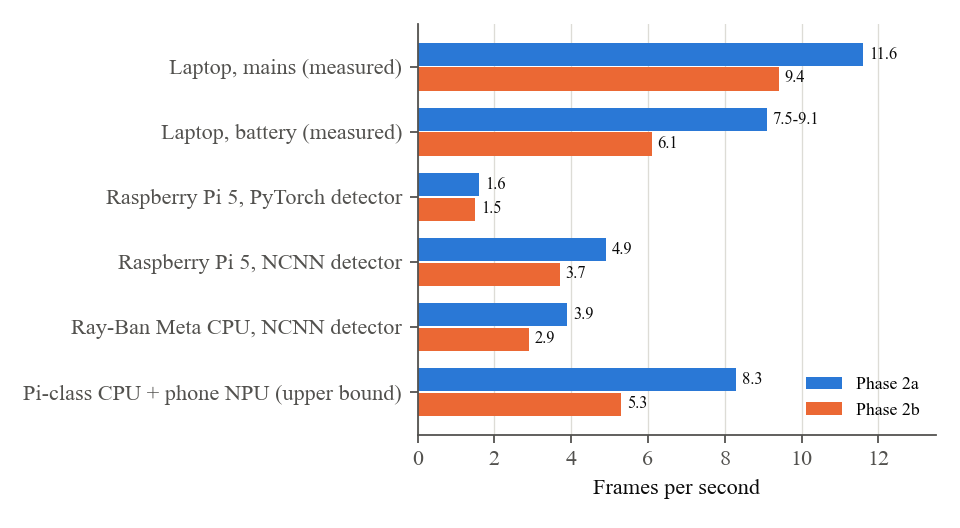
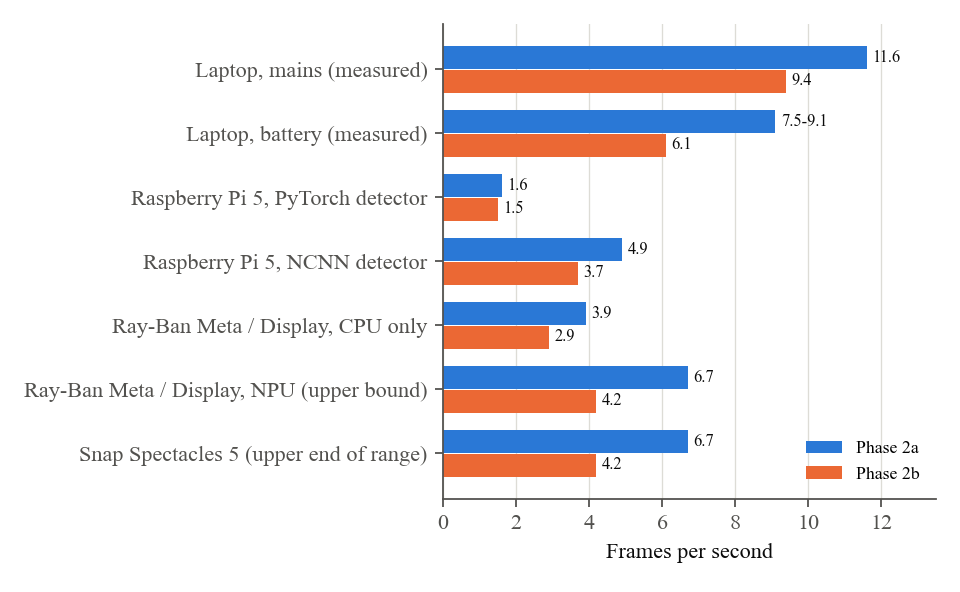
Project pipeline throughput onto every camera-glasses device

Changed region(s): [[0.0, 0.0606, 0.9688, 0.9697]]

diff --git a/thesis_revised/chapters/results_discussion.tex b/thesis_revised/chapters/results_discussion.tex
@@ -465,45 +465,70 @@ Snapdragon 8 Elite Gen 5 phone \cite{ultralytics_qnn} & NPU & QNN     & YOLO26n 
 \end{singlespace}
 \end{table}
 
-\paragraph{Projected throughput.}
-Using the method of Section~\ref{sec:evaldesign}, the remaining stages (31.0~ms for
-Phase~2a, plus 19.9~ms of landmarks for Phase~2b) were multiplied by 3.5 and added to the
-published detection time for each device (Table~\ref{tab:projection},
-Figure~\ref{fig:throughput}). For the Ray-Ban Meta glasses, whose Snapdragon AR1 has four
-CPU cores at 1.9~GHz \cite{qcom_ar1}, I scaled the Raspberry Pi~5 projection by the ratio
-of clock speeds (2.4/1.9). This assumes the AR1's cores do about as much work per clock
-cycle as the Pi's Cortex-A76 cores, which Qualcomm does not publish. The last row places
-the detector on a smartphone-class neural processing unit while the other stages stay on
-a Pi-class CPU; since the AR1's neural processing unit is smaller than a flagship phone's,
-this row is an upper bound. The chips in Snap Spectacles and Meta Aria Gen~2 are not
-published, so I could not project for them.
+\paragraph{Projected throughput on each device.}
+To compare the devices of Table~\ref{tab:glasses} directly, I projected the pipeline onto
+each of them with the method of Section~\ref{sec:evaldesign}: the published detection time
+for that hardware, plus the remaining stages (31.0~ms for Phase~2a, and a further 19.9~ms of
+landmarks for Phase~2b) multiplied by 3.5 for a Pi-class CPU. Table~\ref{tab:projection}
+and Figure~\ref{fig:throughput} give the results; the assumptions behind each row are as
+follows.
+
+\begin{itemize}
+  \item \textbf{Raspberry Pi~5.} Detection times are the published Pi~5 benchmarks for the
+        PyTorch format my pipeline uses and for NCNN, the fastest format on that board.
+  \item \textbf{Ray-Ban Meta and Meta Ray-Ban Display.} Both use the Snapdragon AR1 Gen~1,
+        whose CPU has four cores at 1.9~GHz \cite{qcom_ar1}, so they share one projection.
+        For the CPU-only case I scaled the Pi~5 NCNN projection by the ratio of clock
+        speeds (2.4/1.9), assuming the AR1's cores do about as much work per clock cycle as
+        the Pi's Cortex-A76 cores, which Qualcomm does not publish. For the case where the
+        detector runs on the AR1's Hexagon NPU, I used the published NPU time of a
+        flagship Snapdragon phone; the AR1's NPU is smaller, so this row is an upper bound.
+  \item \textbf{Snap Spectacles (5th generation).} Snap states that the glasses use two
+        Snapdragon processors but not which ones \cite{spectacles5}. I therefore give a
+        range from the AR1 CPU-only case to the AR1 NPU case, assuming chips of the same
+        smart-glasses class.
+  \item \textbf{Meta Aria Gen~2.} Its perception runs on a custom Meta co-processor whose
+        design and benchmarks are not published \cite{aria2}, so no defensible projection
+        is possible.
+\end{itemize}
 
 \begin{table}[htbp]
 \begin{singlespace}
 \centering
-\caption{Measured and projected throughput of the full pipeline.}
+\caption{Measured and projected throughput of the full pipeline on each device. A live
+camera view typically needs 15 to 30 frames per second.}
 \label{tab:projection}
 \renewcommand{\arraystretch}{1.3}
-\fitwidth{\begin{tabular}{@{}llcc@{}}
+\fitwidth{\begin{tabular}{@{}lllcc@{}}
 \toprule
-\textbf{Device and configuration} & \textbf{Basis} & \textbf{Phase 2a} & \textbf{Phase 2b} \\
+\textbf{Device} & \textbf{Configuration} & \textbf{Basis} & \textbf{Phase 2a} & \textbf{Phase 2b} \\
 \midrule
-Laptop, mains power                        & Measured    & 11.6 FPS    & 9.4 FPS \\
-Laptop, battery power                      & Measured    & 7.5-9.1 FPS & 6.1 FPS \\
-Raspberry Pi~5, PyTorch detector           & Projected   & 1.6 FPS     & 1.5 FPS \\
-Raspberry Pi~5, NCNN detector              & Projected   & 4.9 FPS     & 3.7 FPS \\
-Ray-Ban Meta CPU, NCNN detector            & Projected   & 3.9 FPS     & 2.9 FPS \\
-Pi-class CPU with phone-class NPU detector & Upper bound & 8.3 FPS     & 5.3 FPS \\
+Laptop (Core i5-13420H)       & mains power               & Measured    & 11.6 FPS    & 9.4 FPS \\
+                              & battery power             & Measured    & 7.5-9.1 FPS & 6.1 FPS \\
+Raspberry Pi~5                & CPU, PyTorch detector     & Projected   & 1.6 FPS     & 1.5 FPS \\
+                              & CPU, NCNN detector        & Projected   & 4.9 FPS     & 3.7 FPS \\
+Ray-Ban Meta and              & CPU only, NCNN detector   & Projected   & 3.9 FPS     & 2.9 FPS \\
+Meta Ray-Ban Display (AR1)    & detector on NPU           & Upper bound & 6.7 FPS     & 4.2 FPS \\
+Snap Spectacles (5th gen.)    & chips not published       & Range       & 3.9-6.7 FPS & 2.9-4.2 FPS \\
+Meta Aria Gen~2               & chip not published        & Not projected & & \\
 \bottomrule
 \end{tabular}}
 \end{singlespace}
 \end{table}
 
+Across the glasses, the projected frame rates fall between 2.9 and 6.7 frames per second.
+All of them are below the Raspberry Pi~5 with an NCNN detector, because the glasses' CPUs
+run at a lower clock speed, and all of them are below the rate a live view needs. Moving
+the detector to the NPU raises every glasses projection by roughly 70\% for Phase~2a and
+45\% for Phase~2b. The gain is smaller for Phase~2b because landmark extraction still runs on
+the CPU.
+
 \begin{figure}[htbp]
 \centering
 \includegraphics[width=\linewidth]{figures/fig_throughput.pdf}
-\caption{Measured and projected throughput. The battery bar for Phase~2a shows the faster
-of the two runs.}
+\caption{Measured and projected throughput on each device. The battery bar for
+Phase~2a shows the faster of the two runs; for Snap Spectacles the bars show the upper end
+of the range.}
 \label{fig:throughput}
 \end{figure}
 

diff --git a/utils/make_thesis_figures.py b/utils/make_thesis_figures.py
@@ -144,9 +144,10 @@ def fig_throughput():
             ("Laptop, battery (measured)", 9.1, 6.1),
             ("Raspberry Pi 5, PyTorch detector", 1.6, 1.5),
             ("Raspberry Pi 5, NCNN detector", 4.9, 3.7),
-            ("Ray-Ban Meta CPU, NCNN detector", 3.9, 2.9),
-            ("Pi-class CPU + phone NPU (upper bound)", 8.3, 5.3)][::-1]
-    fig, ax = plt.subplots(figsize=(6.0, 3.3))
+            ("Ray-Ban Meta / Display, CPU only", 3.9, 2.9),
+            ("Ray-Ban Meta / Display, NPU (upper bound)", 6.7, 4.2),
+            ("Snap Spectacles 5 (upper end of range)", 6.7, 4.2)][::-1]
+    fig, ax = plt.subplots(figsize=(6.0, 3.7))
     h = 0.36
     for i, (name, a, b) in enumerate(rows):
         ax.barh(i + h / 2 + 0.01, a, height=h, color=BLUE, label="Phase 2a" if i == 0 else None)

diff --git a/CLAUDE.md b/CLAUDE.md
@@ -144,6 +144,7 @@ Runs on Windows and CPU (`DEVICE = "cpu"`). Pass `encoding="utf-8", errors="repl
 - **New analysis (`python eval/replay_classifier.py`)**: replays the classifier on logged cues. It reproduces the logged decisions exactly for 20/21 videos (interaction/video3's log has duplicate rows from an interrupted run) and all 104 clip decisions. Ablation on Set C: geometry only 38/31/1/32 (PSR 96.97, IPR 55.07); +yaw identical; +speaking 39/30/1/32 = full system. **The landmark cues barely matter; geometry decides.** Area sweep: 0.4% 78.79/86.96, 0.6% 84.85/84.06, 0.8% 87.88/79.71, **1.0% 96.97/72.46**, 1.2% 96.97/56.52, 1.5% 96.97/52.17, 2.0% 100/42.03. Thresholds NOT changed in config (post-hoc; presented as sensitivity analysis).
 - Corrected facts: deduplicated formal-set detections = 174,161 (interaction 157,543), tracks ≥2 s = 579 (487 interaction). Landmarks found in 52.9% of detections; |yaw|>40 in 7.0% of those; veto overruled geometry in 1,159 detections (0.67%). Missed partners had landmarks in 69% of clip frames vs 57% for kept ones (the old claim that landmarks fail on missed partners was wrong). Confirmation: kept partners median 0.03 s, 92% within 2 s; late-confirmed misses median 10.9 s.
 - Tracker facts (code): Kalman state = 4 box corners + velocities; confirmation after ≥3 matches (not consecutive); IoU match ≥0.25; velocity frozen after 5 missed frames; the classifier clears a track's latch whenever the tracker doesn't report it in a frame. Blur σ = 8 (OpenCV default for k=51).
+- Per-device projection (supervisor p30 comment, 2026-10-30): tab:projection now has every glasses device. Ray-Ban Meta & Display (AR1): CPU-only 3.9/2.9 FPS, detector on NPU (upper bound, phone NPU 11.3 ms + other stages ×3.5×2.4/1.9) 6.7/4.2; Spectacles 5 range 3.9-6.7 / 2.9-4.2 (chips unpublished, AR1-class assumed); Aria Gen 2 not projected (custom chip). The old "Pi-class CPU + phone NPU 8.3/5.3" row was removed.
 - Figures: `python utils/make_thesis_figures.py` → `thesis_revised/figures/*.pdf` (agreement, face size, trade-off, latency, throughput). No figure shows a face.
 - LaTeX could not be compiled locally (no TeX; downloading Tectonic was blocked). Compile in Overleaf.
 
